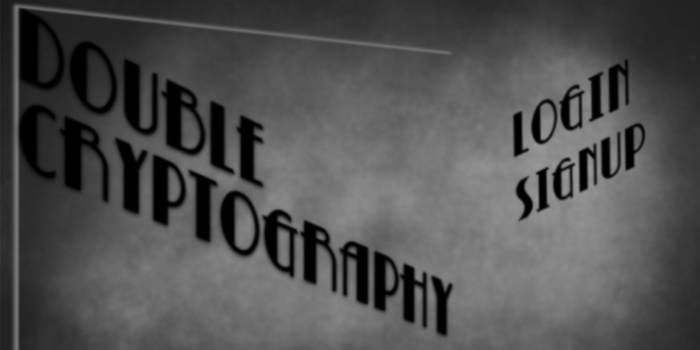
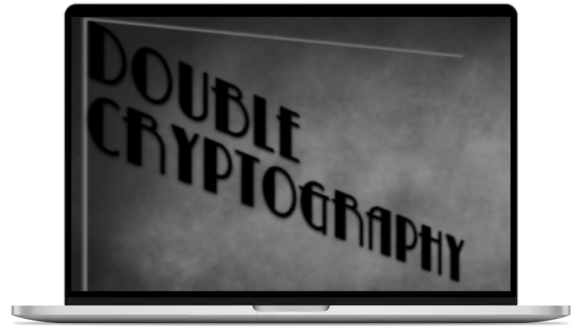
project section

diff --git a/src/Controllers/ProjectControllerNew.js b/src/Controllers/ProjectControllerNew.js
@@ -16,26 +16,15 @@ class ProjectsControllerNew extends React.Component {
 
                 <div className="text-card">
                   <h2>Double Cryptography</h2>
-
+                  
                   <div className='button-div'><button className='lang-tag'>ruby on rails</button><button className='lang-tag'>react.js</button></div>
-
-                  <img className='desc-image' src={doubleC} alt="doublC"></img>
-                  <div className="overlay">
-                  <h1>Browser Game</h1>
-                  <p>I created a browser-based game using Ruby on Rails for the back end and React for the front end. Users can log in to solve interactive puzzles with the help of a detective.</p>
-                  {/* <p>For this project, I designed and wrote front end using React and React-konva. I implemented RESTful API to manage game state and persist game data. I also created all game graphics through Figma and used GSAP to manage animations
-                  </p> */}
-                  {/* <p className="mobile-text" >
-                    <a title="video" href="https://youtu.be/-9TG-lpDn6c"><AiIcons.AiOutlinePlayCircle className="mobile-link" /></a>
-                    <a title="git" href="https://github.com/zoexanos/Decoder-Frontend"> <AiIcons.AiFillGithub className="mobile-link" /></a>
-                    <a title="live" href="https://double-cryptography.herokuapp.com/"> <DiIcons.DiHeroku className="mobile-link" /></a>
-                  </p> */}
-                  <ul>
-                    <a title="video" href="https://youtu.be/-9TG-lpDn6c"><AiIcons.AiOutlinePlayCircle className="link-class" /></a>
-                    <a title="git" href="https://github.com/zoexanos/Decoder-Frontend"> <AiIcons.AiFillGithub className="link-class" /></a>
-                    <a title="live" href="https://double-cryptography.herokuapp.com/"> <DiIcons.DiHeroku className="link-class" /></a>
-                    </ul>
-                </div>
+                  <p className='desc-text'>In-Browser React game. Play as a detective and solve puzzles.</p>
+                    <img className='desc-image' src={doubleC} alt="doublC"></img>
+                    {/* <p className="mobile-text" >
+                      <a title="video" href="https://youtu.be/-9TG-lpDn6c"><AiIcons.AiOutlinePlayCircle className="mobile-link" /></a>
+                      <a title="git" href="https://github.com/zoexanos/Decoder-Frontend"> <AiIcons.AiFillGithub className="mobile-link" /></a>
+                      <a title="live" href="https://double-cryptography.herokuapp.com/"> <DiIcons.DiHeroku className="mobile-link" /></a>
+                    </p> */}
                 </div>
               </div>
               <div className="project-card">

diff --git a/src/scss/Projects.scss b/src/scss/Projects.scss
@@ -1,8 +1,7 @@
-@import url('https://fonts.googleapis.com/css2?family=Montserrat:wght@100&display=swap');
 @import url('https://fonts.googleapis.com/css2?family=Montserrat:ital,wght@0,100..900;1,100..900&display=swap');
 @import url('https://fonts.googleapis.com/css2?family=Open+Sans:ital,wght@0,300..800;1,300..800&display=swap');
 @import url('https://db.onlinewebfonts.com/c/8e47cbbf4f738597d2ee3ea022b77a1c?family=Posterama+1927+W01+UltraBlack');
-
+@import url('https://fonts.googleapis.com/css2?family=Courier+Prime:ital,wght@0,400;0,700;1,400;1,700&display=swap');
 
 #projects{
   background-color: rgb(252, 252, 252);
@@ -33,8 +32,15 @@
 .desc-image {
   max-width: 100%;
   max-height: 100%;
-  margin-top: 1.5rem;
-  border-radius: 10px;
+}
+
+.desc-text {
+  text-align: center;
+  width: 70%;
+  font-family: "Courier Prime", monospace;
+  font-weight: 400;
+  font-style: normal;
+  color: #333333;
 }
 
 .project-card{
@@ -71,61 +77,10 @@
 }
 
 .project-card{
-  // border: 1px solid rgb(53, 53, 53);
   height: auto;
   width: 39.5rem;
   position: relative;
  }
-
- .overlay {
-  display: none;
- }
-
-.desc-image:hover .overlay {
-  margin-top: 1.5rem;
-  background:rgba(0,0,0,.5);
-  position:absolute;
-  height: 68%;
-  bottom: 5px;
-  display: block;
-  transition: 0.3s ease-in-out;
- }
-// .text-hover{
-//   display: flex;
-//   font-family: 'Montserrat', sans-serif;
-//   position: absolute;
-//   height: 68%;
-//   bottom: 5px;
-//   margin-top: 1.5rem;
-//   margin: 0;
-//   border-radius: 10px;
-//   text-align: center;
-//   background: rgba(41, 44, 46, 0.72);
-//   color: #fff;
-//   opacity: 0;
-// }
-
-
-// .project-card:hover .text-hover {
-//   opacity: 1;
-//   transition: 0.3s ease-in-out;
-//   display: block
-// }
-
-// @media (width:1383px) {
-//   .text-hover {
-//     height: 68.8%;
-//     bottom: 0px;
-//   }
-// }
-
-// @media (width:1382px) {
-//   .text-hover {
-//     height: 69%;
-//     bottom: 0px;
-//   }
-// }
-
 
 .lang-tag {
   font-family: "Open Sans", sans-serif;
@@ -164,10 +119,10 @@
   flex-direction: column;
   justify-content: center;
   align-items: center;
+  gap: 1rem;
 }
 
 .button-div {
-  margin: 1rem 0 1rem 0;
   display: flex;
   gap: 0.5rem;
 }

diff --git a/src/scss/Contact.scss b/src/scss/Contact.scss
@@ -4,7 +4,7 @@
 
 #contact {
   padding-top: 5rem;
-  min-height: 100vh;
+  min-height: 95vh;
   margin: 0 5rem 0 5rem;
   padding-bottom: 5rem;
   display: flex;
@@ -209,7 +209,7 @@ p.errorMessage:focus {
   filter: grayscale(1) invert(1);
 }
 
-@media (max-width:425px) {
+@media (max-width:441px) {
   .contactabout {
     margin-left:0;
     width: 80%;

diff --git a/src/scss/Skills.scss b/src/scss/Skills.scss
@@ -2,7 +2,7 @@
   padding-top: 3.5rem;
   margin: 0 5rem;
   color: var(--coldWhite);
-  min-height: 100vh;
+  min-height: 70vh;
   padding-bottom: 4.5rem;
 }
 

diff --git a/src/scss/About.scss b/src/scss/About.scss
@@ -75,7 +75,7 @@ div.Typewriter{
   }
 }
 
-@media (max-width: 425px) {
+@media (max-width: 441px) {
   .arrowcircledown {
     visibility: hidden;
   }

diff --git a/src/scss/Summary.scss b/src/scss/Summary.scss
@@ -33,7 +33,7 @@
   object-fit: cover;
 }
 
-@media (width:425px) {
+@media (width:441px) {
   #about {
     padding-top: 15px;
   }

diff --git a/src/scss/Blog.scss b/src/scss/Blog.scss
@@ -4,7 +4,7 @@
 
 .blog {
   height: max-content;
-  min-height: 100vh;
+  min-height: 95vh;;
 }
 
 #blogwrapper{
